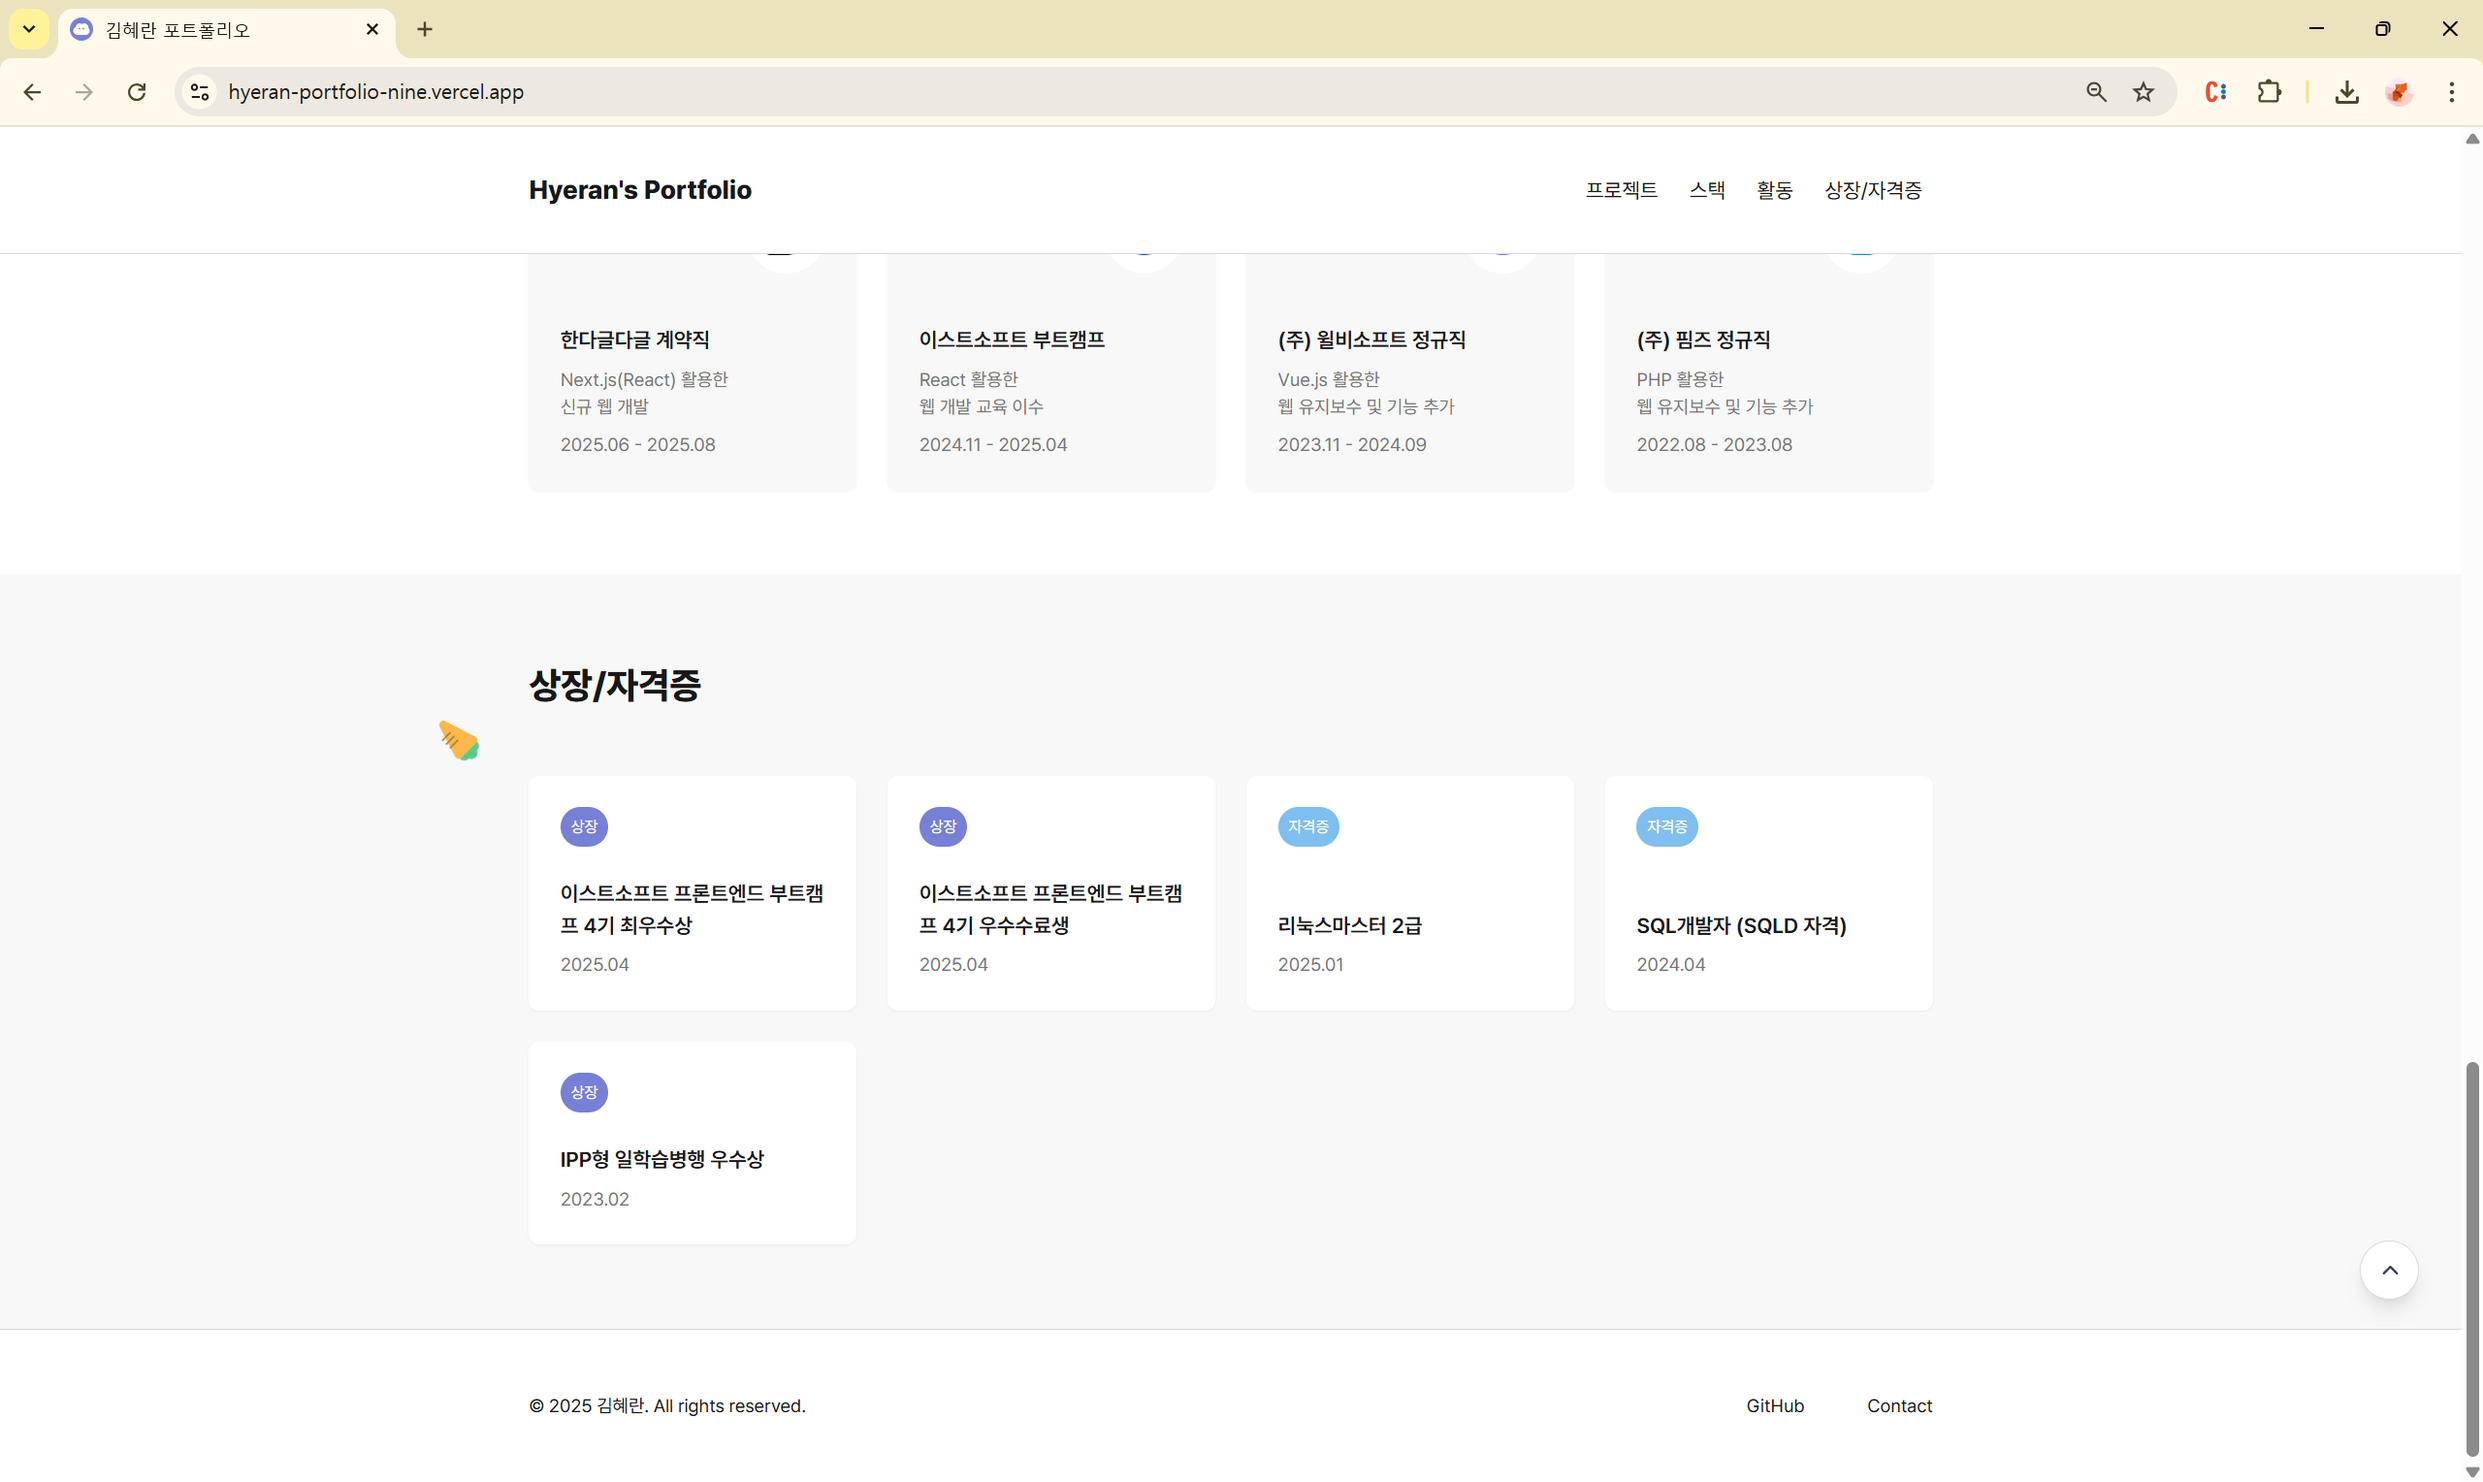
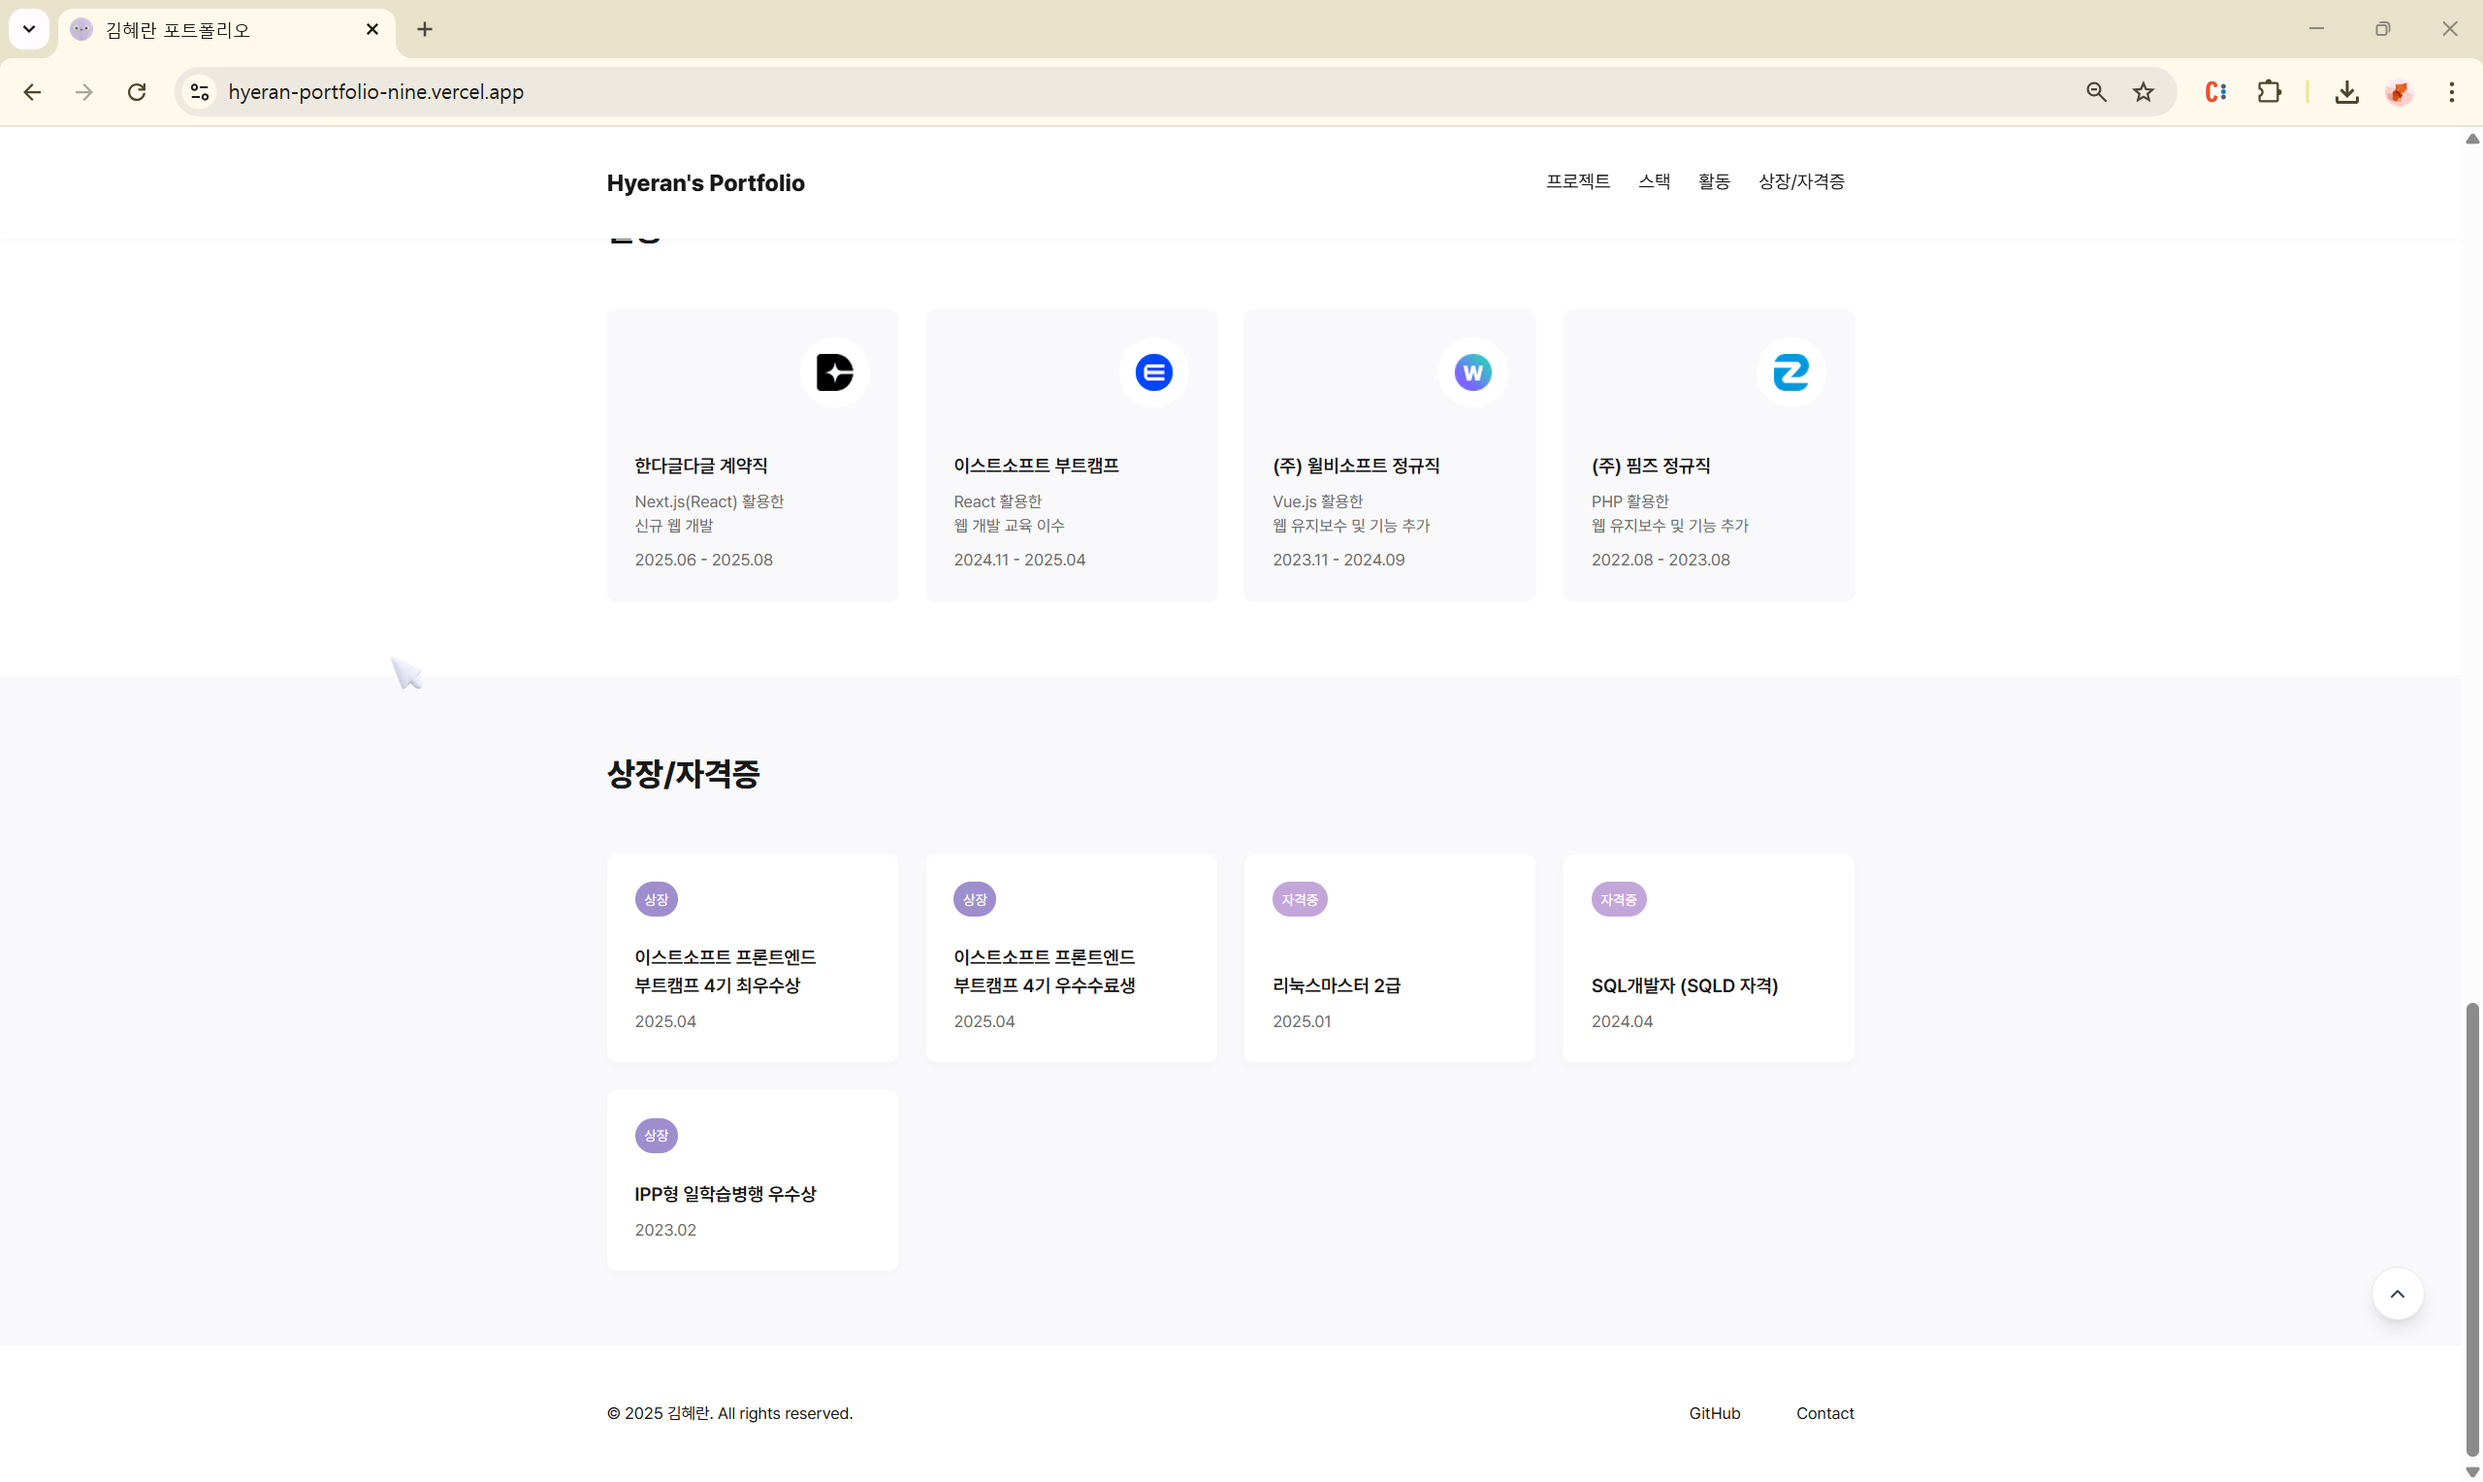
chore: 프로젝트 이미지 교체

diff --git a/constants/project.ts b/constants/project.ts
@@ -1,29 +1,29 @@
 // 개인 프로젝트
-// export const PROJECT_HYERAN = {
-//   type: '개인 프로젝트' as const,
-//   name: '김혜란 포트폴리오',
-//   period: '2025.09.17 - 현재',
-//   members: '프론트엔드 1명',
-//   role: '프론트엔드 / 기획 / 디자인',
-//   contribution: '100%',
-//   description: '개인 포트폴리오 웹사이트로, 제가 프론트엔드로서 쌓아온 경험들을 소개합니다.',
-//   url: 'https://hyeran-portfolio-nine.vercel.app/',
-//   tags: ['반응형', '개인 프로젝트'],
-//   stacks: [
-//     { name: 'Next.js', logo: '/images/stack/next.png' },
-//     { name: 'Tailwind CSS', logo: '/images/stack/tailwindcss.png' },
-//     { name: 'GitHub', logo: '/images/stack/github.png' },
-//   ],
-//   images: [
-//     { src: '/images/portfolio/hyeran/hyeran_hero.png', label: '히어로 섹션' },
-//     { src: '/images/portfolio/hyeran/hyeran_project.png', label: '프로젝트 섹션' },
-//     { src: '/images/portfolio/hyeran/hyeran_project_modal.png', label: '프로젝트 모달' },
-//     { src: '/images/portfolio/hyeran/hyeran_stack_activity.png', label: '스택/활동 섹션' },
-//     { src: '/images/portfolio/hyeran/hyeran_award.png', label: '수상/자격증 섹션' },
-//   ],
-//   thumbnail: '/images/thumbnail/hyeran.png',
-//   reflection: `프론트엔드 개발을 넘어, UI/UX기획부터 디자인까지 직접 진행했습니다.\n\n - 개발툴: Next.js와 Tailwind CSS\n - 인터랙션: GSAP 애니메이션, 커스텀 커서\n - 사용성: 프로젝트 모달, 이미지 확대 효과, FallbackImage\n - 성능 최적화: 이미지 lazy loading, LCP 개선 그동안 터득한 기술 및 경험을 바탕으로 사용자 친화적인 웹사이트를 만들었습니다.\n\n 사용자 관점에서 친숙하고 편리한 경험을 제공하기 위해 끊임없이 고민하는 개발자로 성장하고 싶습니다.`,
-// } as const;
+export const PROJECT_HYERAN = {
+  type: '개인 프로젝트' as const,
+  name: '김혜란 포트폴리오',
+  period: '2025.09.17 - 현재',
+  members: '프론트엔드 1명',
+  role: '프론트엔드 / 기획 / 디자인',
+  contribution: '100%',
+  description: '개인 포트폴리오 웹사이트로, 제가 프론트엔드로서 쌓아온 경험들을 소개합니다.',
+  url: 'https://hyeran-portfolio-nine.vercel.app/',
+  tags: ['반응형', '개인 프로젝트'],
+  stacks: [
+    { name: 'Next.js', logo: '/images/stack/next.png' },
+    { name: 'Tailwind CSS', logo: '/images/stack/tailwindcss.png' },
+    { name: 'GitHub', logo: '/images/stack/github.png' },
+  ],
+  images: [
+    { src: '/images/portfolio/hyeran/hyeran_hero.png', label: '히어로 섹션' },
+    { src: '/images/portfolio/hyeran/hyeran_project.png', label: '프로젝트 섹션' },
+    { src: '/images/portfolio/hyeran/hyeran_project_modal.png', label: '프로젝트 모달' },
+    { src: '/images/portfolio/hyeran/hyeran_stack_activity.png', label: '스택/활동 섹션' },
+    { src: '/images/portfolio/hyeran/hyeran_award.png', label: '수상/자격증 섹션' },
+  ],
+  thumbnail: '/images/thumbnail/hyeran.png',
+  reflection: `프론트엔드 개발을 넘어, UI/UX기획부터 디자인까지 직접 진행했습니다.\n\n - 개발툴: Next.js와 Tailwind CSS\n - 인터랙션: GSAP 애니메이션, 커스텀 커서\n - 사용성: 프로젝트 모달, 이미지 확대 효과, FallbackImage\n - 성능 최적화: 이미지 lazy loading, LCP 개선 그동안 터득한 기술 및 경험을 바탕으로 사용자 친화적인 웹사이트를 만들었습니다.\n\n 사용자 관점에서 친숙하고 편리한 경험을 제공하기 위해 끊임없이 고민하는 개발자로 성장하고 싶습니다.`,
+} as const;
 
 // 여기G
 export const PROJECT_LOGY = {
@@ -239,8 +239,8 @@ export const PROJECTS = [
     key: 'map',
     ...PROJECT_MAP,
   },
-  // {
-  //   key: 'hyeran',
-  //   ...PROJECT_HYERAN,
-  // },
+  {
+    key: 'hyeran',
+    ...PROJECT_HYERAN,
+  },
 ] as const;

diff --git a/constants/service.ts b/constants/service.ts
@@ -3,7 +3,9 @@ const RAW_SITE_URL = process.env.NEXT_PUBLIC_SITE_URL || process.env.VERCEL_URL 
 
 // Normalize to absolute URL with protocol so Next.js metadataBase is valid
 export const SERVICE_URL = RAW_SITE_URL
-  ? (RAW_SITE_URL.startsWith('http') ? RAW_SITE_URL : `https://${RAW_SITE_URL}`)
+  ? RAW_SITE_URL.startsWith('http')
+    ? RAW_SITE_URL
+    : `https://${RAW_SITE_URL}`
   : '';
 export const SERVICE_NAME = '김혜란 포트폴리오';
 export const SERVICE_DESCRIPTION = 'Next.js, tailwind css로 만든 김혜란 포트폴리오입니다.';
